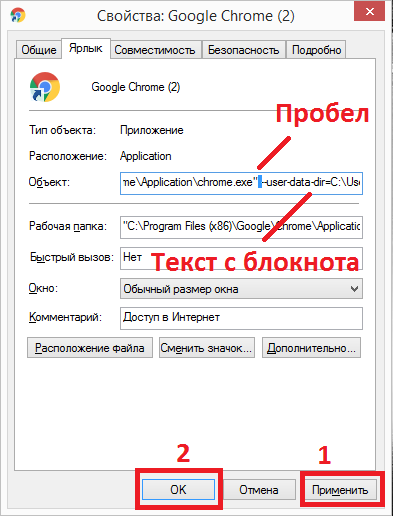
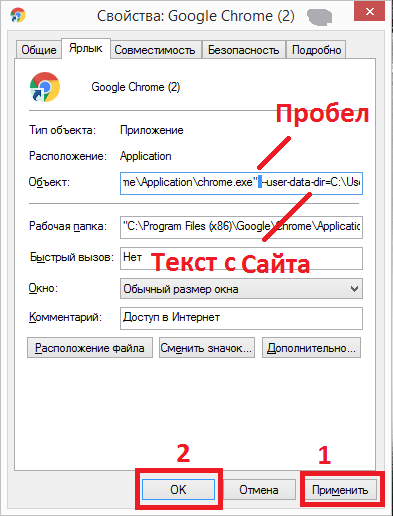
Изменение конспекта по ярлыкам Google

Changed region(s): [[0.6107, 0.4651, 0.916, 0.5271], [0.7634, 0.0, 0.855, 0.062]]

diff --git a/modern_Internet_services.html b/modern_Internet_services.html
@@ -97,20 +97,24 @@
 		<h3>Как сделать 2 ярлыка Google с разными профилями?</h3>
 		<img src="images/GoogleChrome3.png" alt=""> <br>
 		<ol>
-			<li>Создайте папку на рабочем столе</li>
-			<img src="images/NewPapka.png" alt="">
-			<li>Скопируйте её путь</li>
-			<img src="images/Put-Papki.png" alt="">
-			<li>Вставте сразу после слов в блакноте --user-data-dir=Url папки</li>
-			<img src="images/UserDataDir.png" alt="">
 			<li>Скопируйте ярлык Google и вставте его на рабочий стол, назовите как хотите</li>
 			<img src="images/GoogleChromeName.png" alt="">
-			<li>Скопируйте текст ранее написанный в блокноте и вставте в свойствах вашего ярлыка <br>
-			С 1 пробелом после других свойств.
+			<li>Вставте в свойствах вашего ярлыка данный текст - <br> 
+			--user-data-dir="..\User Data\USER-NAME" -first-run <br>
+			С 1 пробелом после других свойств. <br>
+			Здесь USER_NAME – имя профиля, с которым вы хотите войти в Chrome. Сохраняем изменения. 
 			</li>
 			<img src="images/GoogleChromeSvoistva.png" alt="">
+			<li>Закрываем Chrome и запускаем созданный ярлык от администратора. <br>
+				Chrome создаст нового пользователя с заданным вами именем.
+			</li>
+			<img src="https://wd-x.ru/wp-content/uploads/2018/09/start-from-admin-500x324.jpg" alt="">
+			<li>Снова открываем свойства созданного ярлыка и убираем параметр -first-run</li>
+			<li>Теперь по щелчку этого ярлыка будет запускаться Chrome с другим профилем.</li>
 		</ol>
-		Готово!
+		<a href="https://wd-x.ru/otdelnyj-profil-chrome-dlya-tebya-i-dlya-menya/">Сайт с более полезной информацией</a>
+		C:\Users\Натаська\AppData\Local\Google\Chrome\User Data
+
 		<h2>Оптимизация компьютера</h2>
 	Есть много способов для оптимизации ПК. Но самые ефективные из них это
 	<ul>
